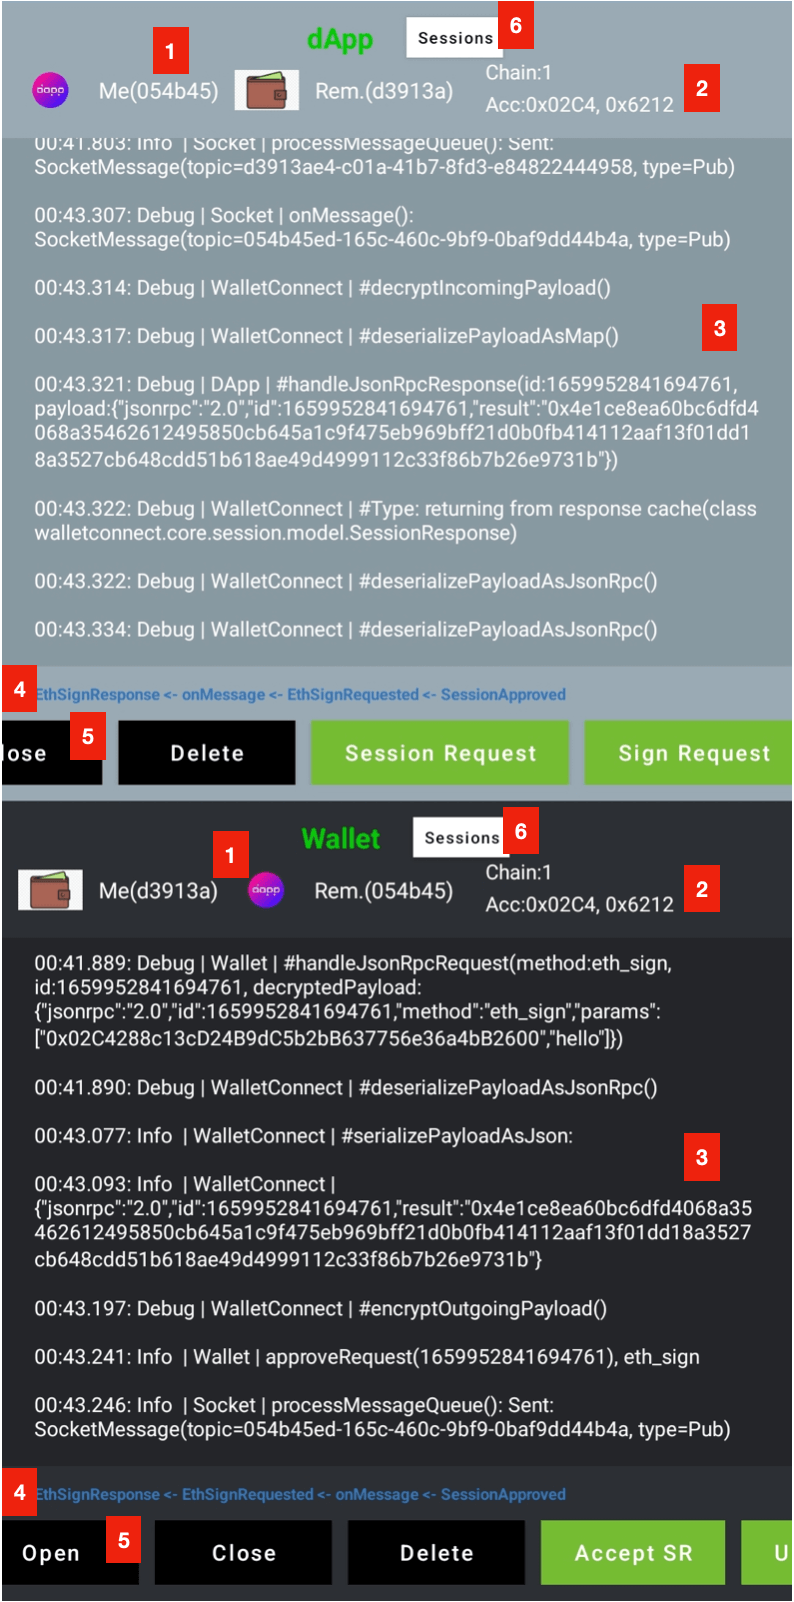
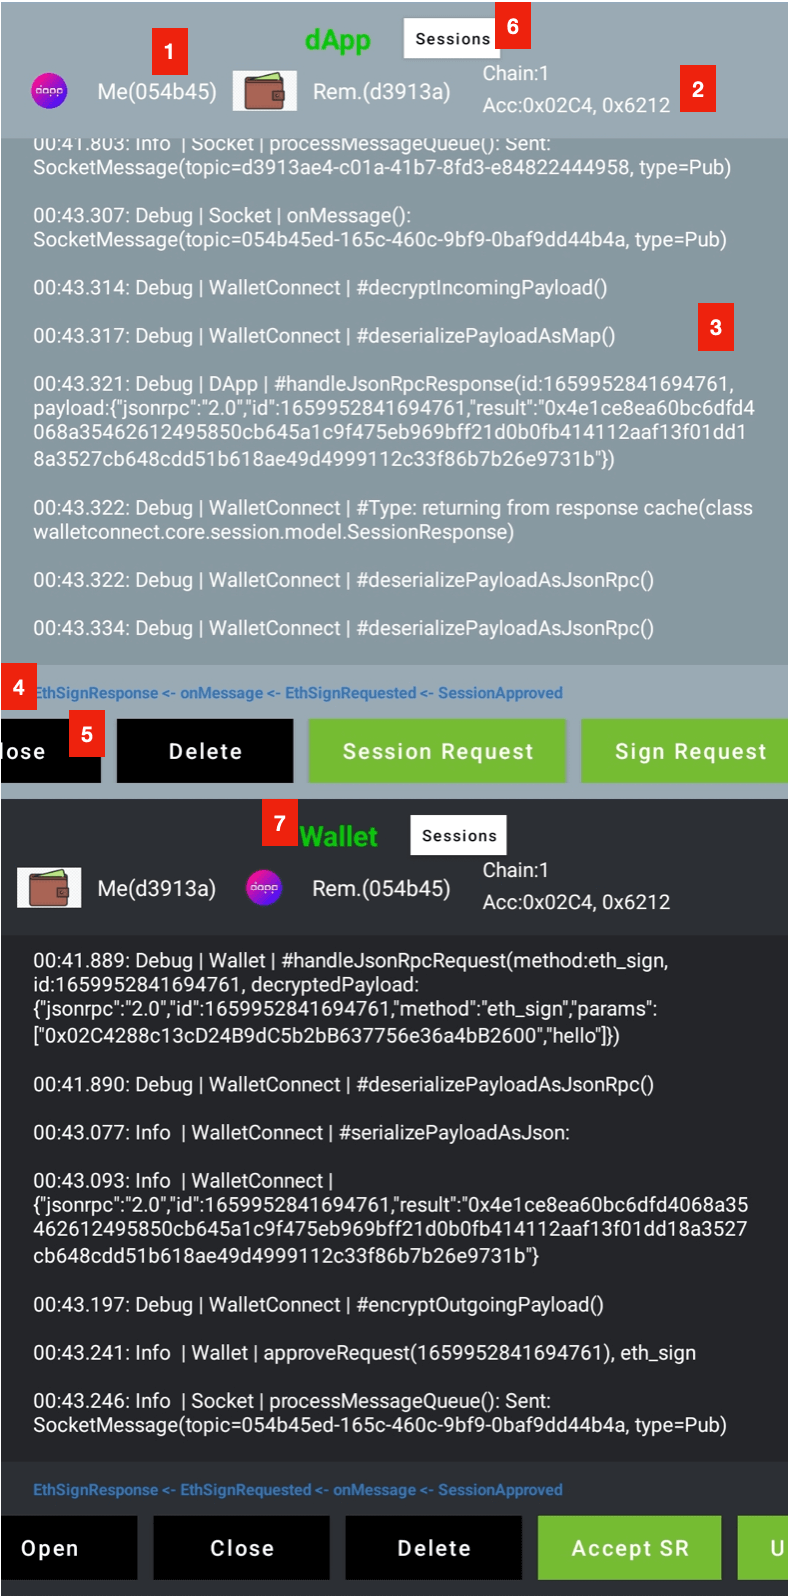
Update sample image

diff --git a/CHANGELOG.md b/CHANGELOG.md
@@ -7,6 +7,10 @@ to [Semantic Versioning](https://semver.org/spec/v2.0.0.html).
 
 ## [Unreleased]
 
+### Changed
+
+- Readme
+
 ## [0.6.0] - 2022-08-08
 
 ### Changed
@@ -36,7 +40,7 @@ to [Semantic Versioning](https://semver.org/spec/v2.0.0.html).
 - Pure kotlin modules
 - Unit tests (except `:walletconnect` module)
 
-[Unreleased]: https://github.com/jemshit/walletconnect/compare/master...develop
+[Unreleased]: https://github.com/jemshit/walletconnect/compare/main...develop
 
 [0.6.0]: https://github.com/jemshit/walletconnect/compare/0.5.0..0.6.0
 

diff --git a/README.md b/README.md
@@ -498,6 +498,7 @@ Image 1:
 4. Callbacks
 5. Action Buttons (can scroll horizontally)
 6. Session List (image 2)
+7. Color changes depending on Socket connection state (orange/green/red)
 
 Image 2:
 
